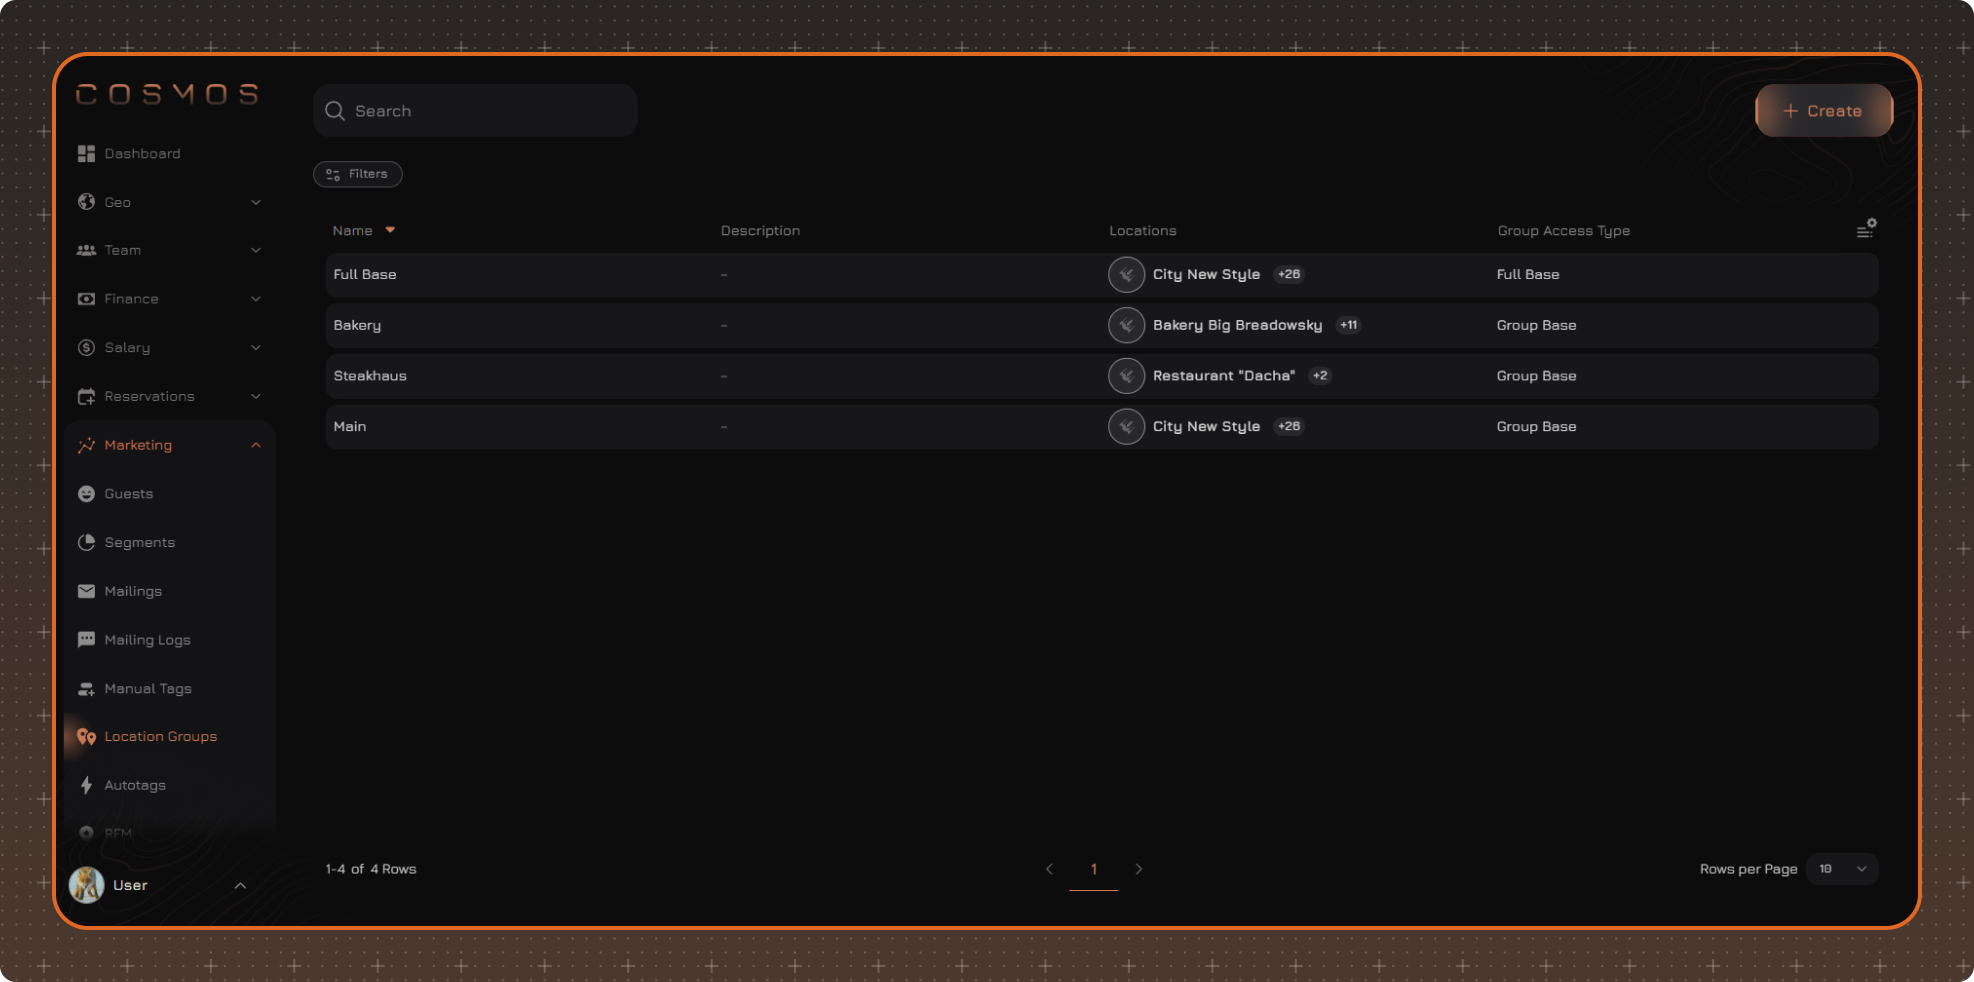
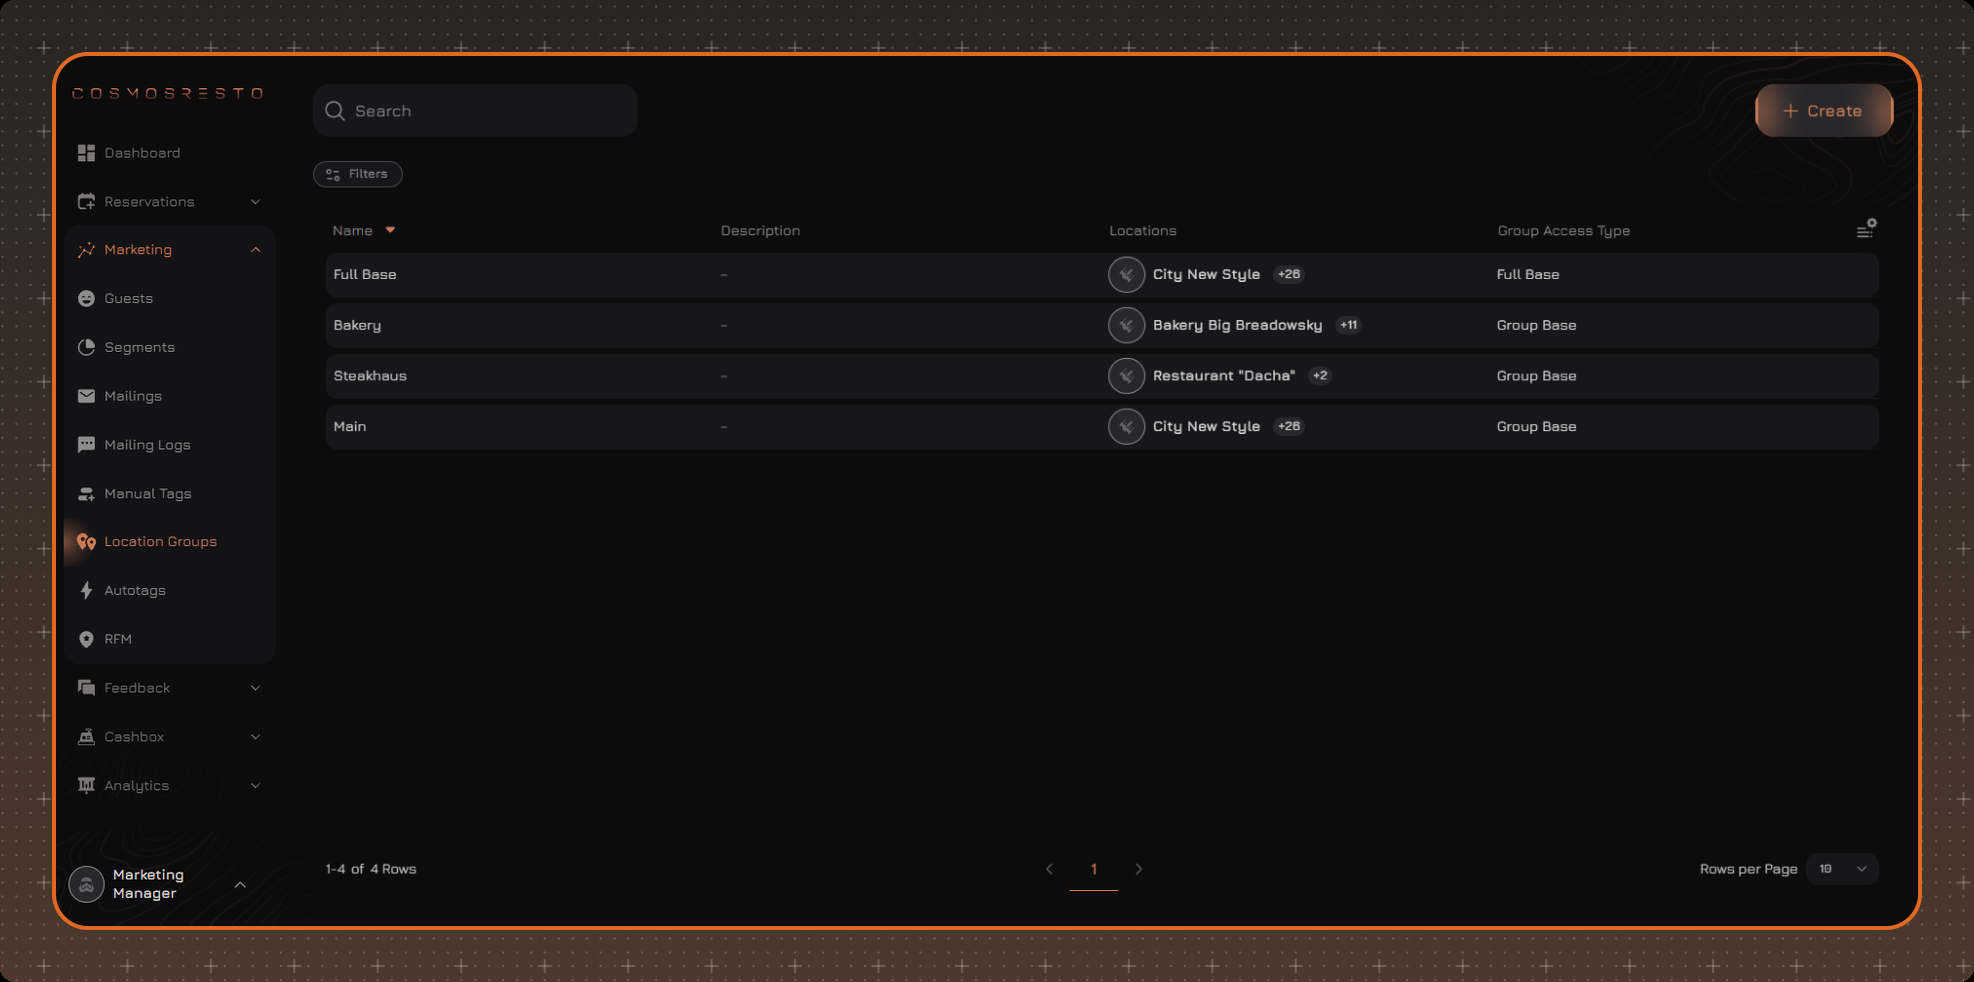
Ребрендинг: «Группы локаций» и RFM - панель маркетолога, новые EN-скрины каруселей RFM, выравнивание каруселей
- панель маркетолога с пунктом «Группы локаций» на скринах раздела
- 3 EN-скрина RFM с панелью маркетолога, на rfm-guests-list подсвечены «Гости»
- карусели «Общая информация» RFM: новые EN-скрины с прода, один статус в рамке, средний скрин выровнен по высоте
- ширина картинки из заголовка ("354") теперь работает и внутри галереи

diff --git a/pages/[locale]/[[...slug]].tsx b/pages/[locale]/[[...slug]].tsx
@@ -303,7 +303,11 @@ function renderMarkdown(contentHtml: string, basePath: string, disableImageZoom 
     }
 
     if (safeAttribs.title) imgProps.title = safeAttribs.title
-    if (safeAttribs.width) imgProps.width = Number(safeAttribs.width)
+    if (safeAttribs.width) {
+      imgProps.width = Number(safeAttribs.width)
+      // galleries force width:auto; the custom property lets a set width win there
+      imgProps.style = { '--img-w': `${safeAttribs.width}px` } as CSSProperties
+    }
     if (safeAttribs.height) imgProps.height = Number(safeAttribs.height)
     if (safeAttribs.loading) imgProps.loading = safeAttribs.loading as ImgHTMLAttributes<HTMLImageElement>['loading']
     if (safeAttribs.decoding) imgProps.decoding = safeAttribs.decoding as ImgHTMLAttributes<HTMLImageElement>['decoding']

diff --git a/styles/globals.scss b/styles/globals.scss
@@ -130,6 +130,10 @@ a {
     max-height: 400px !important;
     width: auto !important;
   }
+
+  img[width] {
+    width: var(--img-w, auto) !important;
+  }
 }
 
 .wiki-gallery[data-gallery-layout="carousel"] {

diff --git a/content/en/marketing/rfm/rfm-info.md b/content/en/marketing/rfm/rfm-info.md
@@ -38,7 +38,7 @@ RFM is recalculated automatically once a day. It is also recalculated after an R
 
 [[gallery gap=12 layout=carousel]]
 ![Guest List](/en/images/rfm/rfm-guests-list-en.png)
-![Guest Profile](/en/images/rfm/rfm-guest-en.png)
+![Guest Profile](/en/images/rfm/rfm-guest-en.png "246")
 ![Reservation List](/en/images/rfm/rfm-reservations-list2-en.png)
 [[/gallery]]
 

diff --git a/content/ru/marketing/rfm/rfm-info.md b/content/ru/marketing/rfm/rfm-info.md
@@ -44,7 +44,7 @@ updatedAt: 2026-08-18
 
 [[gallery gap=12 layout=carousel]]
 ![список гостей](/ru/images/rfm/rfm-guests-list.png)
-![карточка гостя](/ru/images/rfm/rfm-guest.png)
+![карточка гостя](/ru/images/rfm/rfm-guest.png "357")
 ![список бронирований](/ru/images/rfm/rfm-reservations-list2.png)
 
 [[/gallery]]
